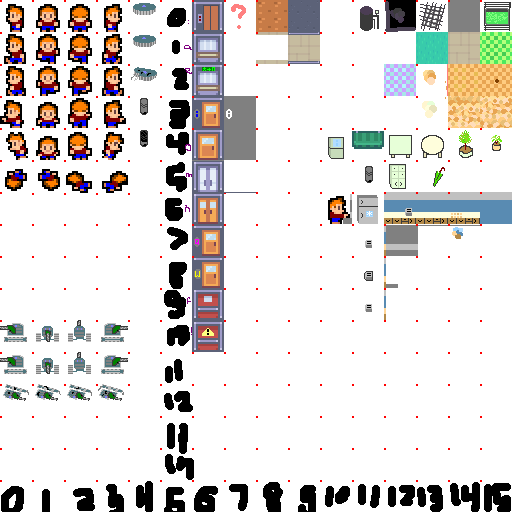
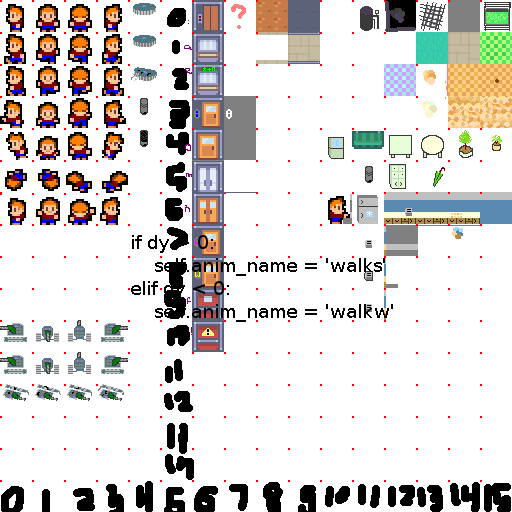
hit animation

Changed region(s): [[0.25, 0.4375, 0.7812, 0.625], [0.0, 0.375, 0.25, 0.4375]]

diff --git a/gamelib/__init__.py b/gamelib/__init__.py
@@ -93,6 +93,7 @@ class EndAction:
     NONE = 0
     LOOP = 1
     STOP = 2
+    IDLE = 3
 
 class AnimationPhase:
     end = EndAction.NONE
@@ -110,6 +111,9 @@ class Animated:
 class CharacterAnimation:
     def __init__(self, tilemap):
         assert  isinstance(tilemap, Tilemap)
+        hitT1 = 5
+        hitT2 = 20
+        hitT3 = 40
         self.phases = [
             AnimationPhase('a', 0, 15, tilemap.no_from_xy(0, 0), end=EndAction.LOOP),
             AnimationPhase('s', 0, 15, tilemap.no_from_xy(1, 0), end=EndAction.LOOP),
@@ -125,6 +129,21 @@ class CharacterAnimation:
             AnimationPhase('walks', 15, 30, tilemap.no_from_xy(1, 2), end=EndAction.LOOP),
             AnimationPhase('walkw', 15, 30, tilemap.no_from_xy(2, 2), end=EndAction.LOOP),
             AnimationPhase('walkd', 15, 30, tilemap.no_from_xy(3, 2), end=EndAction.LOOP),
+
+            AnimationPhase('hita', 0, hitT1, tilemap.no_from_xy(0, 6)),
+            AnimationPhase('hits', 0, hitT1, tilemap.no_from_xy(1, 6)),
+            AnimationPhase('hitw', 0, hitT1, tilemap.no_from_xy(2, 6)),
+            AnimationPhase('hitd', 0, hitT1, tilemap.no_from_xy(3, 6)),
+
+            AnimationPhase('hita', hitT1, hitT2, tilemap.no_from_xy(0, 3), end=EndAction.NONE),
+            AnimationPhase('hits', hitT1, hitT2, tilemap.no_from_xy(1, 3), end=EndAction.NONE),
+            AnimationPhase('hitw', hitT1, hitT2, tilemap.no_from_xy(2, 3), end=EndAction.NONE),
+            AnimationPhase('hitd', hitT1, hitT2, tilemap.no_from_xy(3, 3), end=EndAction.NONE),
+
+            AnimationPhase('hita', hitT2, hitT3, tilemap.no_from_xy(0, 0), end=EndAction.IDLE),
+            AnimationPhase('hits', hitT2, hitT3, tilemap.no_from_xy(1, 0), end=EndAction.IDLE),
+            AnimationPhase('hitw', hitT2, hitT3, tilemap.no_from_xy(2, 0), end=EndAction.IDLE),
+            AnimationPhase('hitd', hitT2, hitT3, tilemap.no_from_xy(3, 0), end=EndAction.IDLE),
         ]
     def anim_tile(self, animation_state):
         cap = None
@@ -141,6 +160,9 @@ class CharacterAnimation:
                 animation_state.anim_time = 0
             elif cap.end == EndAction.LOOP:
                 animation_state.anim_time -= 1
+            elif cap.end == EndAction.IDLE:
+                animation_state.anim_time = 0
+                animation_state.anim_name = animation_state.anim_name[-1]
         return cap.tile
 
 class BotAnimation(CharacterAnimation):
@@ -239,6 +261,7 @@ class Monster(Animated):
     hp = 10
     dx = 0
     dy = 0
+    attack = False
     isplayer = False
     animation = None
     sense_range = 32 * 5
@@ -264,12 +287,16 @@ class Monster(Animated):
 
         if dx > 0:
             self.anim_name = 'walkd'
+            self.anim_time = self.anim_time % 30
         elif dx < 0:
             self.anim_name = 'walka'
+            self.anim_time = self.anim_time % 30
         elif dy > 0:
             self.anim_name = 'walks'
+            self.anim_time = self.anim_time % 30
         elif dy < 0:
             self.anim_name = 'walkw'
+            self.anim_time = self.anim_time % 30
         else:
             self.anim_name = self.anim_name.replace('walk', '')
             self.anim_time = 0
@@ -344,30 +371,38 @@ class Player(Monster):
         walking = False
         dx, dy = 0, 0
 
-        if keys_down.get(pygame.K_f):
-            firing = True
-            dy = -3
-
         if keys_down.get(pygame.K_w):
             walking = True
             dy = -self.speed
             self.anim_name = 'walkw'
+            self.anim_time = self.anim_time % 30
         if keys_down.get(pygame.K_s):
             walking = True
             dy = self.speed
             self.anim_name = 'walks'
+            self.anim_time = self.anim_time % 30
         if keys_down.get(pygame.K_a):
             walking = True
             dx = -self.speed
             self.anim_name = 'walka'
+            self.anim_time = self.anim_time % 30
         if keys_down.get(pygame.K_d):
             walking = True
             dx = self.speed
             self.anim_name = 'walkd'
+            self.anim_time = self.anim_time % 30
 
         if not walking and self.anim_name.startswith('walk'):
             self.anim_name = self.anim_name.replace('walk', '')
             self.anim_time = 0
+
+        if keys_down.get(pygame.K_f):
+            self.attack = True
+            if self.anim_name.startswith('walk') or len(self.anim_name) == 1:
+                direction = self.anim_name[-1]
+                self.anim_time = 0
+                self.anim_name = 'hit'+direction
+
         self.dx = dx
         self.dy = dy
 
